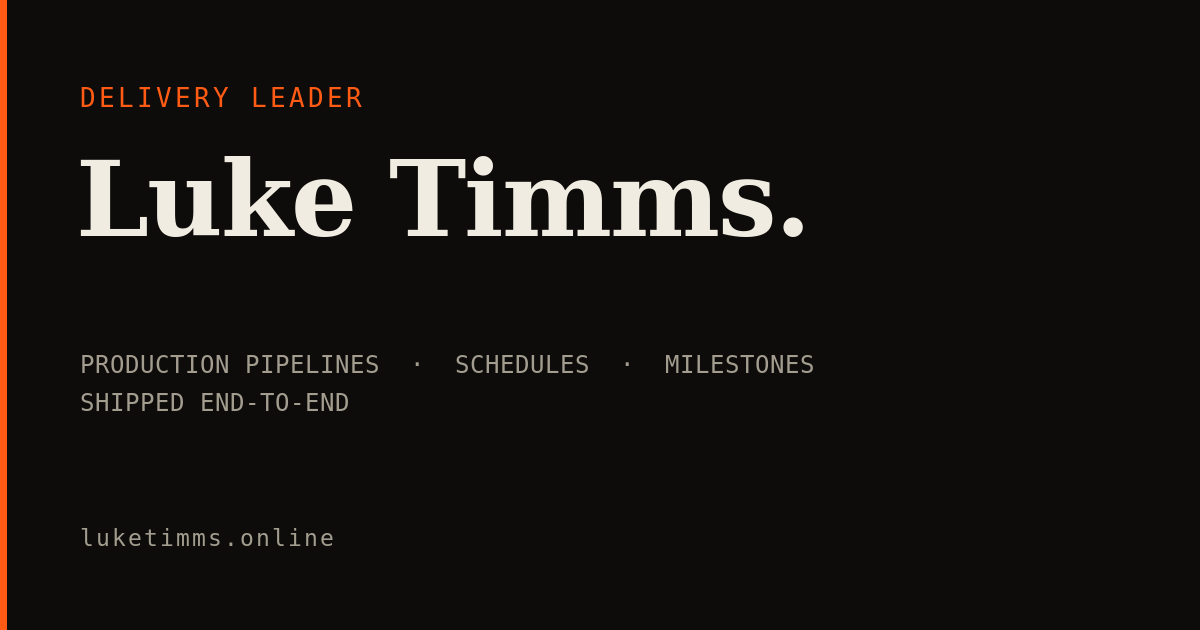
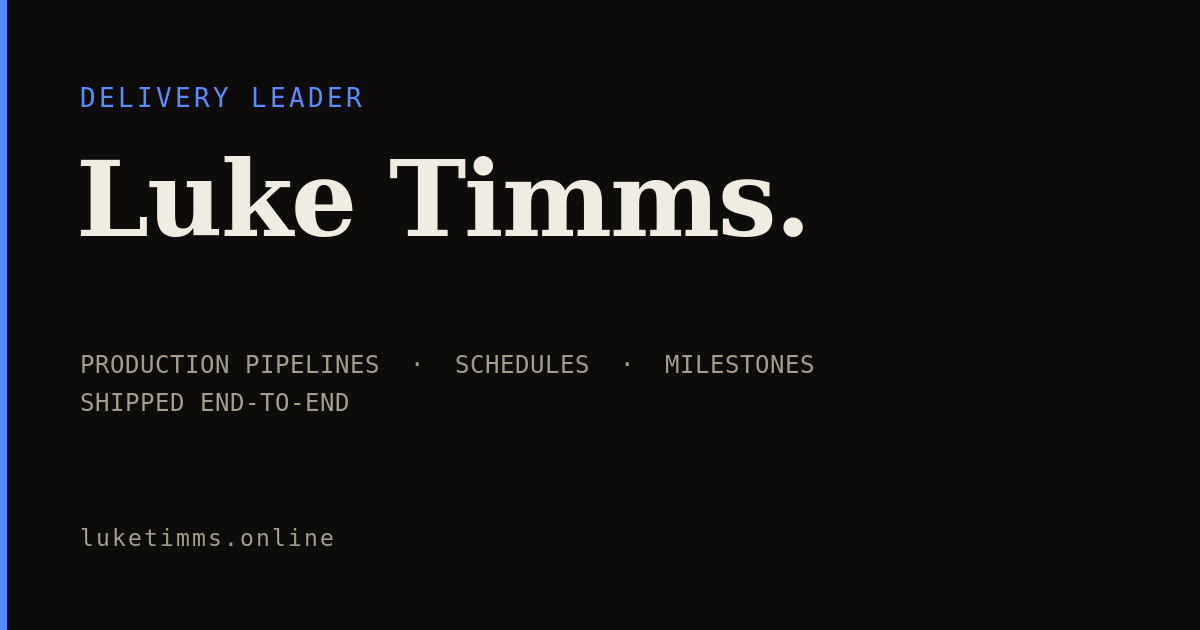
Swap accent colour from orange to blue across the CV site
Updates --accent/--accent-2 in index.html, creative-producer/,
softography/ and cv-print.html (dark + light themes), the minime
chat widget's fallback colours, and regenerates the OG share image
to match.

Changed region(s): [[0.0, 0.0, 0.0308, 1.0], [0.0617, 0.1206, 0.185, 0.181], [0.2158, 0.1206, 0.3083, 0.181]]

diff --git a/minime/minime.js b/minime/minime.js
@@ -63,14 +63,14 @@
     [data-theme="light"] .minime-sprite { filter: drop-shadow(0 6px 6px rgba(20, 19, 15, 0.15)); }
     .minime-hit { position: absolute; left: 38px; top: 36px; width: 96px; height: 140px; padding: 0;
       border: 0; background: transparent; pointer-events: auto; cursor: pointer; border-radius: 12px; }
-    .minime-hit:focus-visible { outline: 2px solid var(--accent, #ff5b14); outline-offset: 2px; }
+    .minime-hit:focus-visible { outline: 2px solid var(--accent, #5b8cff); outline-offset: 2px; }
     .minime-shadow { position: absolute; left: ${FEET_X - 28}px; bottom: 2px; width: 56px; height: 8px;
       border-radius: 50%; background: rgba(0, 0, 0, 0.35); filter: blur(2px); }
     [data-theme="light"] .minime-shadow { background: rgba(20, 19, 15, 0.15); }
     .minime-bubble { position: absolute; right: ${W - 140}px; bottom: ${H - 30}px; max-width: 220px; width: max-content;
       padding: 0.5rem 0.7rem; border-radius: 12px 12px 3px 12px;
       font: 500 0.72rem/1.35 'JetBrains Mono', ui-monospace, monospace; letter-spacing: 0.02em;
-      color: var(--text, #f0ece2); background: var(--bg-soft, #14130f); border: 1px solid var(--accent, #ff5b14);
+      color: var(--text, #f0ece2); background: var(--bg-soft, #14130f); border: 1px solid var(--accent, #5b8cff);
       opacity: 0; transform: translateY(4px); transition: opacity 0.25s, transform 0.25s; }
     .minime-bubble.show { opacity: 1; transform: none; }
     .minime-close { position: absolute; left: 128px; top: 34px; width: 20px; height: 20px; border-radius: 50%;
@@ -83,7 +83,7 @@
     .minime-chat { position: fixed; z-index: 1000; width: ${PANEL_W}px; max-height: min(460px, calc(100vh - 100px));
       display: none; flex-direction: column; overflow: hidden;
       background: var(--bg-soft, #14130f); color: var(--text, #f0ece2);
-      border: 1px solid var(--accent, #ff5b14); border-radius: 16px;
+      border: 1px solid var(--accent, #5b8cff); border-radius: 16px;
       box-shadow: 0 18px 50px rgba(0, 0, 0, 0.45); font-family: 'Inter Tight', system-ui, sans-serif; }
     [data-theme="light"] .minime-chat { box-shadow: 0 18px 50px rgba(20, 19, 15, 0.18); }
     .minime-chat.open { display: flex; }
@@ -100,24 +100,24 @@
     .minime-msg { white-space: pre-line; max-width: 88%; padding: 0.55rem 0.75rem; border-radius: 14px; font-size: 0.86rem; line-height: 1.45; }
     .minime-msg.him { align-self: flex-start; background: var(--bg, #0d0c0a); border: 1px solid var(--line, #1f1d17);
       border-bottom-left-radius: 4px; }
-    .minime-msg.you { align-self: flex-end; background: var(--accent, #ff5b14); color: #fff; border-bottom-right-radius: 4px; }
+    .minime-msg.you { align-self: flex-end; background: var(--accent, #5b8cff); color: #fff; border-bottom-right-radius: 4px; }
     .minime-msg .minime-act { display: inline-block; margin-top: 0.45rem; padding: 0.3rem 0.65rem; border-radius: 999px;
-      border: 1px solid var(--accent, #ff5b14); color: var(--accent, #ff5b14); background: transparent; cursor: pointer;
+      border: 1px solid var(--accent, #5b8cff); color: var(--accent, #5b8cff); background: transparent; cursor: pointer;
       font: 600 0.72rem/1.2 'JetBrains Mono', ui-monospace, monospace; text-decoration: none; letter-spacing: 0.03em; }
-    .minime-msg .minime-act:hover { background: var(--accent, #ff5b14); color: #fff; }
+    .minime-msg .minime-act:hover { background: var(--accent, #5b8cff); color: #fff; }
     .minime-typing { align-self: flex-start; color: var(--text-dim, #b3ad9f); font-size: 0.8rem; padding: 0 0.3rem; }
     .minime-chips { display: flex; flex-wrap: wrap; gap: 0.35rem; padding: 0 0.8rem 0.6rem; }
     .minime-chips button { padding: 0.32rem 0.6rem; border-radius: 999px; cursor: pointer;
       border: 1px solid var(--line, #1f1d17); background: transparent; color: var(--text, #f0ece2);
       font: 500 0.74rem/1.2 'Inter Tight', system-ui, sans-serif; }
-    .minime-chips button:hover { border-color: var(--accent, #ff5b14); color: var(--accent, #ff5b14); }
+    .minime-chips button:hover { border-color: var(--accent, #5b8cff); color: var(--accent, #5b8cff); }
     .minime-form { display: flex; gap: 0.4rem; padding: 0.6rem; border-top: 1px solid var(--line, #1f1d17); }
     .minime-form input { flex: 1; min-width: 0; padding: 0.55rem 0.7rem; border-radius: 10px;
       border: 1px solid var(--line, #1f1d17); background: var(--bg, #0d0c0a); color: var(--text, #f0ece2);
       font: 400 0.86rem 'Inter Tight', system-ui, sans-serif; }
-    .minime-form input:focus { outline: none; border-color: var(--accent, #ff5b14); }
+    .minime-form input:focus { outline: none; border-color: var(--accent, #5b8cff); }
     .minime-form button { padding: 0 0.85rem; border-radius: 10px; border: 0; cursor: pointer;
-      background: var(--accent, #ff5b14); color: #fff; font: 600 0.8rem 'Inter Tight', system-ui, sans-serif; }
+      background: var(--accent, #5b8cff); color: #fff; font: 600 0.8rem 'Inter Tight', system-ui, sans-serif; }
 
     .minime-flow { display: none; flex-direction: column; gap: 0.45rem; padding: 0.6rem;
       border-top: 1px solid var(--line, #1f1d17); }
@@ -126,34 +126,34 @@
     .minime-flow .row { display: flex; gap: 0.4rem; }
     .minime-flow .opts { display: flex; flex-wrap: wrap; gap: 0.35rem; }
     .minime-flow .opts button { padding: 0.4rem 0.7rem; border-radius: 999px; cursor: pointer;
-      border: 1px solid var(--accent, #ff5b14); background: transparent; color: var(--text, #f0ece2);
+      border: 1px solid var(--accent, #5b8cff); background: transparent; color: var(--text, #f0ece2);
       font: 500 0.78rem/1.2 'Inter Tight', system-ui, sans-serif; }
-    .minime-flow .opts button:hover { background: var(--accent, #ff5b14); color: #fff; }
+    .minime-flow .opts button:hover { background: var(--accent, #5b8cff); color: #fff; }
     .minime-flow input, .minime-flow textarea { flex: 1; min-width: 0; padding: 0.55rem 0.7rem; border-radius: 10px;
       border: 1px solid var(--line, #1f1d17); background: var(--bg, #0d0c0a); color: var(--text, #f0ece2);
       font: 400 0.86rem 'Inter Tight', system-ui, sans-serif; resize: vertical; }
-    .minime-flow input:focus, .minime-flow textarea:focus { outline: none; border-color: var(--accent, #ff5b14); }
+    .minime-flow input:focus, .minime-flow textarea:focus { outline: none; border-color: var(--accent, #5b8cff); }
     .minime-flow .send { padding: 0.5rem 0.9rem; border-radius: 10px; border: 0; cursor: pointer;
-      background: var(--accent, #ff5b14); color: #fff; font: 600 0.8rem 'Inter Tight', system-ui, sans-serif; }
+      background: var(--accent, #5b8cff); color: #fff; font: 600 0.8rem 'Inter Tight', system-ui, sans-serif; }
     .minime-flow .ghost { padding: 0.5rem 0.75rem; border-radius: 10px; cursor: pointer;
       border: 1px solid var(--line, #1f1d17); background: transparent; color: var(--text-dim, #b3ad9f);
       font: 500 0.78rem 'Inter Tight', system-ui, sans-serif; }
     .minime-flow .foot { display: flex; justify-content: space-between; align-items: center; }
-    .minime-flow .bad { color: var(--accent, #ff5b14); font-size: 0.75rem; }
+    .minime-flow .bad { color: var(--accent, #5b8cff); font-size: 0.75rem; }
 
     .minime-cta { display: inline-flex; align-items: center; gap: 0.6rem; margin: 0.4rem 0 1.2rem;
       padding: 0.45rem 1.2rem 0.45rem 0.45rem; border-radius: 999px; cursor: pointer;
-      border: 1px solid var(--accent, #ff5b14); background: var(--accent, #ff5b14); color: #fff;
+      border: 1px solid var(--accent, #5b8cff); background: var(--accent, #5b8cff); color: #fff;
       font: 600 1rem 'Inter Tight', system-ui, sans-serif; }
     .minime-cta img { width: 42px; height: 42px; border-radius: 50%; background: var(--bg, #0d0c0a); }
     .minime-cta:hover { filter: brightness(1.08); }
     .minime-cta.ghost-cta { background: transparent; color: var(--text, #f0ece2); padding: 0.45rem 1.2rem; }
-    .minime-cta.ghost-cta:hover { background: var(--accent, #ff5b14); color: #fff; }
+    .minime-cta.ghost-cta:hover { background: var(--accent, #5b8cff); color: #fff; }
     .minime-cta + .minime-cta { margin-left: 0.6rem; }
 
     .minime-launch { position: fixed; left: 14px; bottom: 14px; z-index: 44; display: none; align-items: center; gap: 0.45rem;
       padding: 0.3rem 0.85rem 0.3rem 0.3rem; border-radius: 999px; cursor: pointer;
-      border: 1px solid var(--accent, #ff5b14); background: var(--bg-soft, #14130f); color: var(--text, #f0ece2);
+      border: 1px solid var(--accent, #5b8cff); background: var(--bg-soft, #14130f); color: var(--text, #f0ece2);
       font: 600 0.8rem 'Inter Tight', system-ui, sans-serif; box-shadow: 0 8px 24px rgba(0, 0, 0, 0.35); }
     .minime-launch img { width: 34px; height: 34px; border-radius: 50%; object-fit: cover; }
     .minime-launch.on { display: inline-flex; }

diff --git a/creative-producer/index.html b/creative-producer/index.html
@@ -39,8 +39,8 @@
       --text:      #f0ece2;
       --text-dim:  #b3ad9f;
       --text-mute: #4a463e;
-      --accent:    #ff5b14;
-      --accent-2:  #ffb38a;
+      --accent:    #5b8cff;
+      --accent-2:  #a6c4ff;
       --max:       1440px;
       --pad-x:     clamp(1.25rem, 4vw, 3.5rem);
     }
@@ -52,8 +52,8 @@
       --text:      #14130f;
       --text-dim:  #4d473d;
       --text-mute: #8d8779;
-      --accent:    #c43e00;
-      --accent-2:  #a35821;
+      --accent:    #1e4fd8;
+      --accent-2:  #3d5a99;
     }
 
     *, *::before, *::after { box-sizing: border-box; }

diff --git a/index.html b/index.html
@@ -38,8 +38,8 @@
       --text:      #f0ece2;
       --text-dim:  #b3ad9f;
       --text-mute: #4a463e;
-      --accent:    #ff5b14;
-      --accent-2:  #ffb38a;
+      --accent:    #5b8cff;
+      --accent-2:  #a6c4ff;
       --max:       1440px;
       --pad-x:     clamp(1.25rem, 4vw, 3.5rem);
     }
@@ -52,8 +52,8 @@
       --text:      #14130f;
       --text-dim:  #4d473d;
       --text-mute: #8d8779;
-      --accent:    #c43e00;
-      --accent-2:  #a35821;
+      --accent:    #1e4fd8;
+      --accent-2:  #3d5a99;
     }
 
     *, *::before, *::after { box-sizing: border-box; }

diff --git a/softography/index.html b/softography/index.html
@@ -26,8 +26,8 @@
       --text:      #f0ece2;
       --text-dim:  #b3ad9f;
       --text-mute: #4a463e;
-      --accent:    #ff5b14;
-      --accent-2:  #ffb38a;
+      --accent:    #5b8cff;
+      --accent-2:  #a6c4ff;
       --max:       960px;
       --pad-x:     clamp(1.25rem, 4vw, 3.5rem);
     }

diff --git a/cv-print.html b/cv-print.html
@@ -15,8 +15,8 @@
       --text:      #14130f;
       --text-dim:  #4d473d;
       --text-mute: #8d8779;
-      --accent:    #c43e00;
-      --accent-2:  #a35821;
+      --accent:    #1e4fd8;
+      --accent-2:  #3d5a99;
     }
 
     *, *::before, *::after { box-sizing: border-box; }
